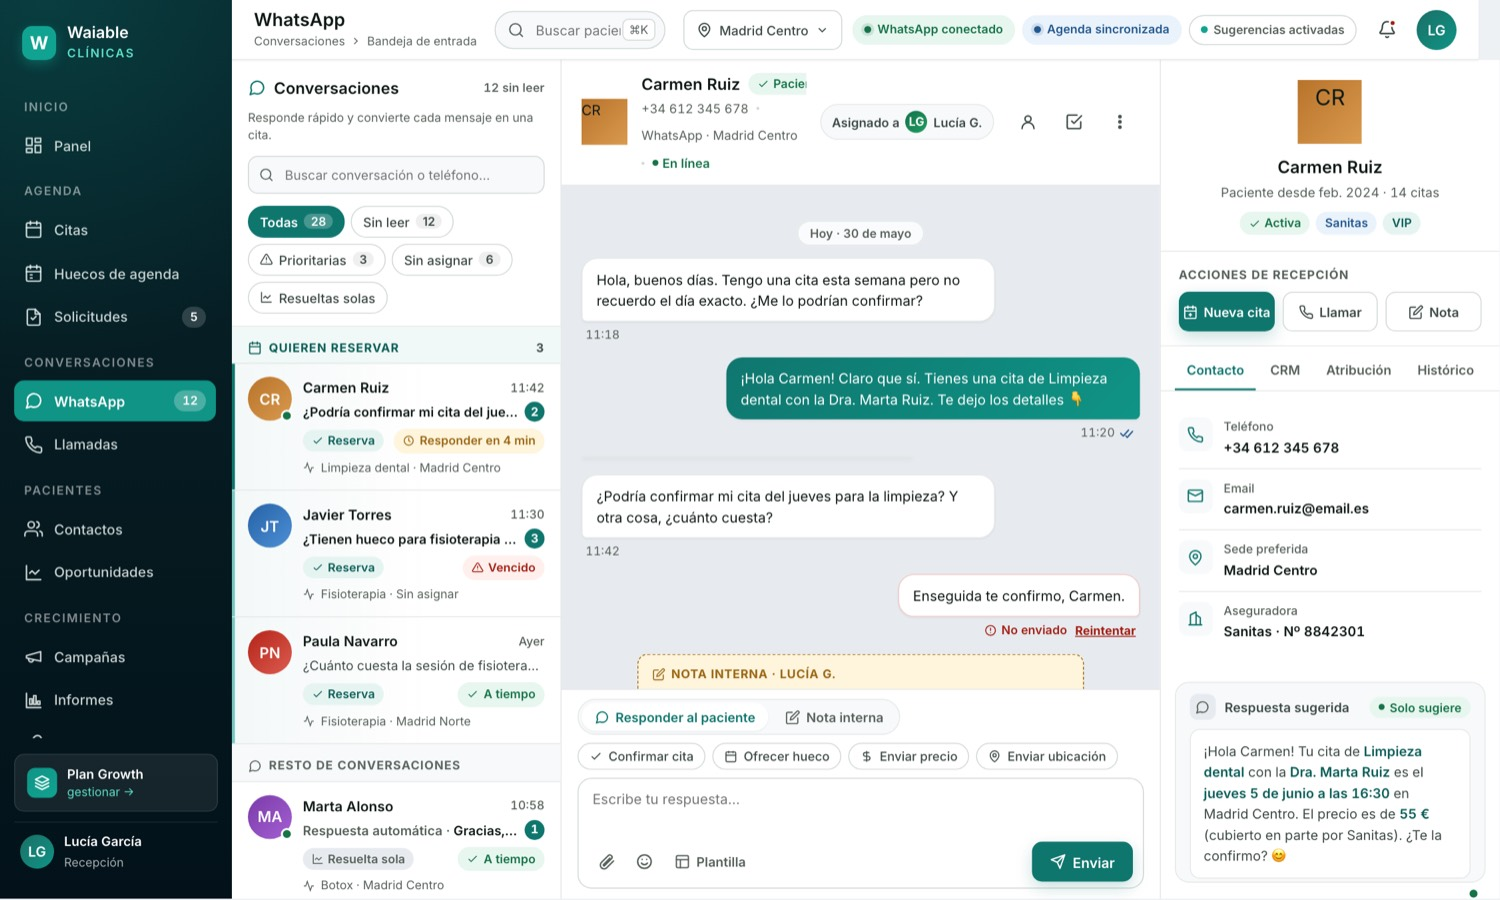
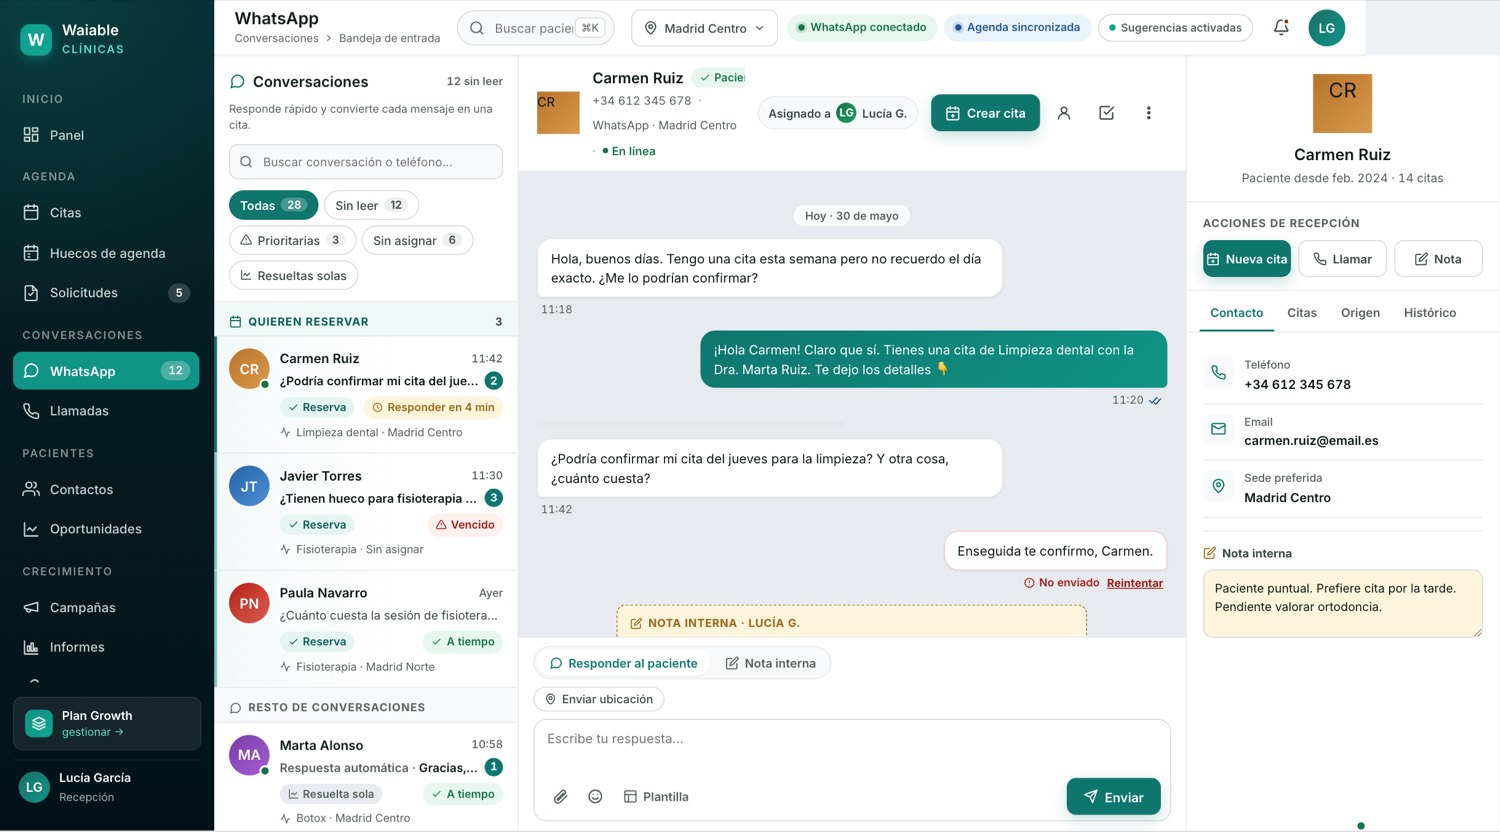
Inbox: Crear cita en cabecera, tab Citas (próxima cita+Valor del paciente), tab Origen, nota interna, sin Aseguradora/Respuesta sugerida/badges; acciones rápidas solo ubicación

diff --git a/whatsapp/inbox.html b/whatsapp/inbox.html
@@ -207,6 +207,18 @@ a:focus-visible, button:focus-visible, input:focus-visible, textarea:focus-visib
 .assigned .mini-av{width:22px;height:22px;border-radius:50%;background:linear-gradient(135deg,#157348,#1f9c61);display:grid;place-items:center;color:#fff;font-size:12px;font-weight:700}
 .ch-actions{display:flex; gap:6px; flex-shrink:0}
 .ch-actions .icon-btn{width:40px;height:40px}
+.head-cta{display:inline-flex;align-items:center;gap:7px;height:40px;padding:0 15px;border-radius:10px;background:var(--primary);color:#fff;font-size:13.5px;font-weight:600;border:none;cursor:pointer;box-shadow:0 6px 16px rgba(15,118,110,.22);transition:background .15s, transform .04s;white-space:nowrap}
+.head-cta:hover{background:var(--primary-dark)} .head-cta:active{transform:translateY(1px)} .head-cta svg{width:17px;height:17px}
+.appt-next{display:flex;gap:11px;align-items:flex-start;padding:12px 13px;border-radius:11px;background:var(--primary-soft);border:1px solid #cfe9e3;margin-bottom:12px}
+.appt-next .an-ico{width:34px;height:34px;border-radius:9px;background:var(--primary);color:#fff;display:grid;place-items:center;flex-shrink:0}
+.appt-next .an-k{font-size:12px;font-weight:600;color:var(--primary-dark);text-transform:uppercase;letter-spacing:.04em}
+.appt-next .an-v{font-size:13.5px;font-weight:700;color:var(--text);margin-top:2px}
+.appt-next .an-sub{font-size:12.5px;color:var(--muted-strong);margin-top:1px}
+.pnote{margin-top:14px;border-top:1px solid var(--line);padding-top:14px}
+.pnote-head{display:flex;align-items:center;gap:7px;font-size:12.5px;font-weight:700;color:var(--text-2);margin-bottom:8px}
+.pnote-head svg{color:var(--warning)}
+.pnote-area{width:100%;min-height:74px;resize:vertical;border:1px solid var(--line-strong);border-radius:10px;padding:10px 12px;font-family:inherit;font-size:13px;line-height:1.5;color:var(--text);background:var(--warning-soft)}
+.pnote-area:focus{outline:none;border-color:var(--primary);box-shadow:0 0 0 3px var(--primary-soft);background:#fff}
 
 /* Banner degradado (WhatsApp desconectado / error) */
 .chat-banner{display:none; align-items:center; gap:10px; padding:10px 16px; font-size:13px; font-weight:600; background:var(--danger-soft); color:var(--danger); border-bottom:1px solid #f3c9c4}
@@ -607,6 +619,7 @@ a:focus-visible, button:focus-visible, input:focus-visible, textarea:focus-visib
           </div>
           <div class="assigned">Asignado a <span class="mini-av">LG</span> Lucía G.</div>
           <div class="ch-actions">
+            <button class="head-cta" onclick="showToast && showToast(\'Abriendo nueva cita para Carmen Ruiz\')"><svg viewBox="0 0 24 24" fill="none" stroke="currentColor" stroke-width="2" stroke-linecap="round" stroke-linejoin="round"><rect x="3" y="4" width="18" height="18" rx="2"/><path d="M16 2v4M8 2v4M3 10h18M12 14v4M10 16h4"/></svg>Crear cita</button>
             <button class="icon-btn" aria-label="Ver perfil del paciente"><svg width="18" height="18" viewBox="0 0 24 24" fill="none" stroke="currentColor" stroke-width="2" stroke-linecap="round" stroke-linejoin="round"><circle cx="12" cy="8" r="4"/><path d="M4 21a8 8 0 0 1 16 0"/></svg></button>
             <button class="icon-btn" aria-label="Marcar conversación como resuelta"><svg width="18" height="18" viewBox="0 0 24 24" fill="none" stroke="currentColor" stroke-width="2" stroke-linecap="round" stroke-linejoin="round"><path d="M9 11l3 3L22 4"/><path d="M21 12v7a2 2 0 0 1-2 2H5a2 2 0 0 1-2-2V5a2 2 0 0 1 2-2h11"/></svg></button>
             <button class="icon-btn" aria-label="Más opciones de la conversación"><svg width="18" height="18" viewBox="0 0 24 24" fill="none" stroke="currentColor" stroke-width="2" stroke-linecap="round"><circle cx="12" cy="5" r="1.4"/><circle cx="12" cy="12" r="1.4"/><circle cx="12" cy="19" r="1.4"/></svg></button>
@@ -685,11 +698,8 @@ a:focus-visible, button:focus-visible, input:focus-visible, textarea:focus-visib
             <button class="note-mode" role="tab" aria-selected="false"><svg width="15" height="15" viewBox="0 0 24 24" fill="none" stroke="currentColor" stroke-width="2" stroke-linecap="round" stroke-linejoin="round"><path d="M11 4H4a2 2 0 0 0-2 2v14a2 2 0 0 0 2 2h14a2 2 0 0 0 2-2v-7"/><path d="M18.5 2.5a2.1 2.1 0 0 1 3 3L12 15l-4 1 1-4z"/></svg>Nota interna</button>
           </div>
           <div class="quick-replies">
-            <button class="qr"><svg width="13" height="13" viewBox="0 0 24 24" fill="none" stroke="currentColor" stroke-width="2"><path d="M20 6 9 17l-5-5"/></svg>Confirmar cita</button>
-            <button class="qr"><svg width="13" height="13" viewBox="0 0 24 24" fill="none" stroke="currentColor" stroke-width="2"><rect x="3" y="4" width="18" height="18" rx="2"/><path d="M16 2v4M8 2v4M3 10h18"/></svg>Ofrecer hueco</button>
-            <button class="qr"><svg width="13" height="13" viewBox="0 0 24 24" fill="none" stroke="currentColor" stroke-width="2"><path d="M12 2v20M17 5H9.5a3.5 3.5 0 0 0 0 7h5a3.5 3.5 0 0 1 0 7H6"/></svg>Enviar precio</button>
-            <button class="qr"><svg width="13" height="13" viewBox="0 0 24 24" fill="none" stroke="currentColor" stroke-width="2"><path d="M20 10c0 6-8 12-8 12s-8-6-8-12a8 8 0 0 1 16 0z"/><circle cx="12" cy="10" r="3"/></svg>Enviar ubicación</button>
-          </div>
+              <button class="qr"><svg width="13" height="13" viewBox="0 0 24 24" fill="none" stroke="currentColor" stroke-width="2"><path d="M20 10c0 6-8 12-8 12s-8-6-8-12a8 8 0 0 1 16 0z"/><circle cx="12" cy="10" r="3"/></svg>Enviar ubicación</button>
+            </div>
           <div class="comp-box">
             <label for="msgInput" class="sr-only">Escribe tu respuesta para Carmen</label>
             <textarea id="msgInput" placeholder="Escribe tu respuesta…"></textarea>
@@ -710,11 +720,6 @@ a:focus-visible, button:focus-visible, input:focus-visible, textarea:focus-visib
           <div class="av a1" aria-hidden="true">CR</div>
           <h3>Carmen Ruiz</h3>
           <div class="pid-sub">Paciente desde feb. 2024 · 14 citas</div>
-          <div class="pid-tags">
-            <span class="tag t-ok"><svg width="12" height="12" viewBox="0 0 24 24" fill="none" stroke="currentColor" stroke-width="2"><path d="M20 6 9 17l-5-5"/></svg>Activa</span>
-            <span class="tag t-info">Sanitas</span>
-            <span class="tag t-primary">VIP</span>
-          </div>
         </div>
 
         <div class="panel-actions-label">Acciones de recepción</div>
@@ -727,8 +732,8 @@ a:focus-visible, button:focus-visible, input:focus-visible, textarea:focus-visib
         <!-- PANEL TABS -->
         <div class="panel-tabs" role="tablist" aria-label="Detalles del paciente">
           <button class="p-tab" role="tab" aria-selected="true" data-tab="contacto">Contacto</button>
-          <button class="p-tab" role="tab" aria-selected="false" data-tab="crm">CRM</button>
-          <button class="p-tab" role="tab" aria-selected="false" data-tab="atribucion">Atribución</button>
+          <button class="p-tab" role="tab" aria-selected="false" data-tab="crm">Citas</button>
+          <button class="p-tab" role="tab" aria-selected="false" data-tab="atribucion">Origen</button>
           <button class="p-tab" role="tab" aria-selected="false" data-tab="historico">Histórico</button>
         </div>
 
@@ -746,31 +751,21 @@ a:focus-visible, button:focus-visible, input:focus-visible, textarea:focus-visib
             <div class="ir-ico"><svg width="17" height="17" viewBox="0 0 24 24" fill="none" stroke="currentColor" stroke-width="2" stroke-linecap="round" stroke-linejoin="round"><path d="M20 10c0 6-8 12-8 12s-8-6-8-12a8 8 0 0 1 16 0z"/><circle cx="12" cy="10" r="3"/></svg></div>
             <div><div class="ir-k">Sede preferida</div><div class="ir-v">Madrid Centro</div></div>
           </div>
-          <div class="info-row">
-            <div class="ir-ico"><svg width="17" height="17" viewBox="0 0 24 24" fill="none" stroke="currentColor" stroke-width="2" stroke-linecap="round" stroke-linejoin="round"><path d="M3 21h18M5 21V7l8-4v18M19 21V11l-6-4"/></svg></div>
-            <div><div class="ir-k">Aseguradora</div><div class="ir-v">Sanitas · Nº 8842301</div></div>
+          <div class="pnote">
+            <div class="pnote-head"><svg width="14" height="14" viewBox="0 0 24 24" fill="none" stroke="currentColor" stroke-width="2" stroke-linecap="round" stroke-linejoin="round"><path d="M11 4H4a2 2 0 0 0-2 2v14a2 2 0 0 0 2 2h14a2 2 0 0 0 2-2v-7"/><path d="M18.5 2.5a2.12 2.12 0 0 1 3 3L12 15l-4 1 1-4z"/></svg>Nota interna</div>
+            <textarea class="pnote-area" placeholder="Anota algo sobre esta paciente (solo lo ve tu equipo)…">Paciente puntual. Prefiere cita por la tarde. Pendiente valorar ortodoncia.</textarea>
           </div>
         </div>
 
         <!-- TAB: CRM -->
         <div class="tab-pane" id="tab-crm" role="tabpanel">
-          <div class="crm-stat">
-            <span class="cs-k"><svg width="15" height="15" viewBox="0 0 24 24" fill="none" stroke="var(--ok)" stroke-width="2"><path d="M20 6 9 17l-5-5"/></svg>Citas completadas</span>
-            <span class="cs-v">14</span>
+          <div class="appt-next">
+            <span class="an-ico"><svg width="18" height="18" viewBox="0 0 24 24" fill="none" stroke="currentColor" stroke-width="2" stroke-linecap="round" stroke-linejoin="round"><rect x="3" y="4" width="18" height="18" rx="2"/><path d="M16 2v4M8 2v4M3 10h18M9 16l2 2 4-4"/></svg></span>
+            <div class="an-tx"><div class="an-k">Próxima cita</div><div class="an-v">Jue 5 jun · 16:30 · Limpieza dental</div><div class="an-sub">Dra. Marta Ruiz · Madrid Centro</div></div>
           </div>
-          <div class="crm-stat">
-            <span class="cs-k"><svg width="15" height="15" viewBox="0 0 24 24" fill="none" stroke="var(--primary)" stroke-width="2"><path d="M12 2v20M17 5H9.5a3.5 3.5 0 0 0 0 7h5a3.5 3.5 0 0 1 0 7H6"/></svg>Valor de vida (LTV)</span>
-            <span class="cs-v">1.840 €</span>
-          </div>
-          <div class="crm-stat">
-            <span class="cs-k"><svg width="15" height="15" viewBox="0 0 24 24" fill="none" stroke="var(--warning)" stroke-width="2"><circle cx="12" cy="12" r="9"/><path d="M12 7v5l3 2"/></svg>Última visita</span>
-            <span class="cs-v">12 abr 2026</span>
-          </div>
-          <div class="section-title">Oportunidad abierta</div>
-          <div class="crm-stat" style="background:var(--primary-tint);border-color:var(--primary-soft)">
-            <span class="cs-k"><svg width="15" height="15" viewBox="0 0 24 24" fill="none" stroke="var(--primary)" stroke-width="2"><path d="m3 11 18-5v12L3 14v-3z"/></svg>Blanqueamiento</span>
-            <span class="tag t-warn">Propuesta</span>
-          </div>
+          <div class="crm-stat"><span class="cs-k"><svg width="15" height="15" viewBox="0 0 24 24" fill="none" stroke="var(--ok)" stroke-width="2" stroke-linecap="round" stroke-linejoin="round"><path d="M20 6 9 17l-5-5"/></svg>Estado</span><span class="cs-v">Paciente activo</span></div>
+          <div class="crm-stat"><span class="cs-k"><svg width="15" height="15" viewBox="0 0 24 24" fill="none" stroke="var(--primary)" stroke-width="2" stroke-linecap="round" stroke-linejoin="round"><path d="M3 3v18h18"/><path d="m19 9-5 5-4-4-3 3"/></svg>Valor del paciente</span><span class="cs-v">1.840 €</span></div>
+          <div class="crm-stat"><span class="cs-k"><svg width="15" height="15" viewBox="0 0 24 24" fill="none" stroke="var(--primary)" stroke-width="2" stroke-linecap="round" stroke-linejoin="round"><rect x="3" y="4" width="18" height="18" rx="2"/><path d="M16 2v4M8 2v4M3 10h18"/></svg>Citas totales</span><span class="cs-v">14 · última 12 abr 2026</span></div>
         </div>
 
         <!-- TAB: ATRIBUCION -->
@@ -814,36 +809,6 @@ a:focus-visible, button:focus-visible, input:focus-visible, textarea:focus-visib
             </div>
           </div>
         </div>
-
-        <!-- RESPUESTA SUGERIDA — bloque secundario y compacto debajo de la ficha -->
-        <div class="ai-block">
-          <div class="ai-head">
-            <div class="ai-ico"><svg width="15" height="15" viewBox="0 0 24 24" fill="none" stroke="currentColor" stroke-width="2" stroke-linecap="round" stroke-linejoin="round"><path d="M21 11.5a8.38 8.38 0 0 1-.9 3.8 8.5 8.5 0 0 1-7.6 4.7 8.38 8.38 0 0 1-3.8-.9L3 21l1.9-5.7a8.38 8.38 0 0 1-.9-3.8 8.5 8.5 0 0 1 4.7-7.6 8.38 8.38 0 0 1 3.8-.9h.5a8.48 8.48 0 0 1 8 8z"/></svg></div>
-            <span class="ai-t">Respuesta sugerida</span>
-            <button class="ai-mode" type="button" aria-label="Solo es una sugerencia; tú decides cuándo enviarla">
-              <span class="dot"></span>Solo sugiere
-              <span class="tip">Es una propuesta de respuesta. No se envía sola: tú decides enviarla, editarla o escribir la tuya.</span>
-            </button>
-          </div>
-
-          <div class="ai-section">
-            <div class="ai-reply">¡Hola Carmen! Tu cita de <span class="var">Limpieza dental</span> con la <span class="var">Dra. Marta Ruiz</span> es el <span class="var">jueves 5 de junio a las 16:30</span> en Madrid Centro. El precio es de <span class="var">55 €</span> (cubierto en parte por Sanitas). ¿Te la confirmo? 😊</div>
-            <span class="ai-trust"><svg width="14" height="14" viewBox="0 0 24 24" fill="none" stroke="currentColor" stroke-width="2" stroke-linecap="round" stroke-linejoin="round"><path d="M20 6 9 17l-5-5"/></svg>Sugerencia fiable</span>
-          </div>
-
-          <!-- Acciones de la sugerencia: enviar discreto + editar / recepción -->
-          <div class="ai-actions">
-            <button class="ai-cta" data-toast="Respuesta enviada a Carmen por WhatsApp.">
-              <svg width="15" height="15" viewBox="0 0 24 24" fill="none" stroke="currentColor" stroke-width="2" stroke-linecap="round" stroke-linejoin="round"><path d="m22 2-7 20-4-9-9-4z"/><path d="M22 2 11 13"/></svg>
-              Usar y enviar
-            </button>
-            <div class="ai-sec-row">
-              <button class="ai-ghost"><svg width="14" height="14" viewBox="0 0 24 24" fill="none" stroke="currentColor" stroke-width="2" stroke-linecap="round" stroke-linejoin="round"><path d="M11 4H4a2 2 0 0 0-2 2v14a2 2 0 0 0 2 2h14a2 2 0 0 0 2-2v-7"/><path d="M18.5 2.5a2.1 2.1 0 0 1 3 3L12 15l-4 1 1-4z"/></svg>Editar</button>
-              <button class="ai-ghost esc" aria-label="Pasar la conversación a recepción"><svg width="14" height="14" viewBox="0 0 24 24" fill="none" stroke="currentColor" stroke-width="2" stroke-linecap="round" stroke-linejoin="round"><path d="M17 21v-2a4 4 0 0 0-4-4H5a4 4 0 0 0-4 4v2"/><circle cx="9" cy="7" r="4"/><path d="M19 8v6M22 11h-6"/></svg>A recepción</button>
-            </div>
-          </div>
-        </div>
-
       </aside>
 
     </div>
